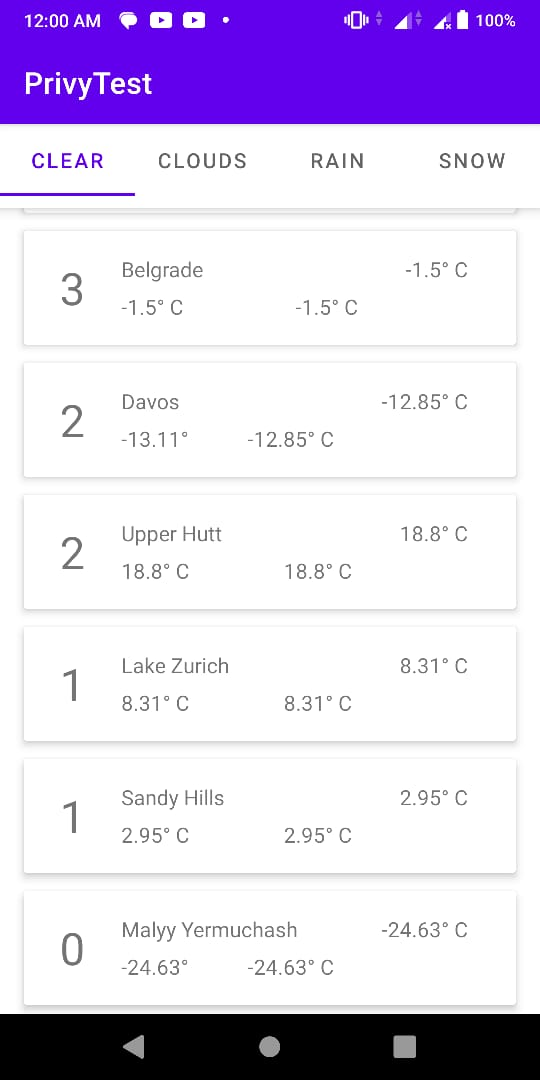
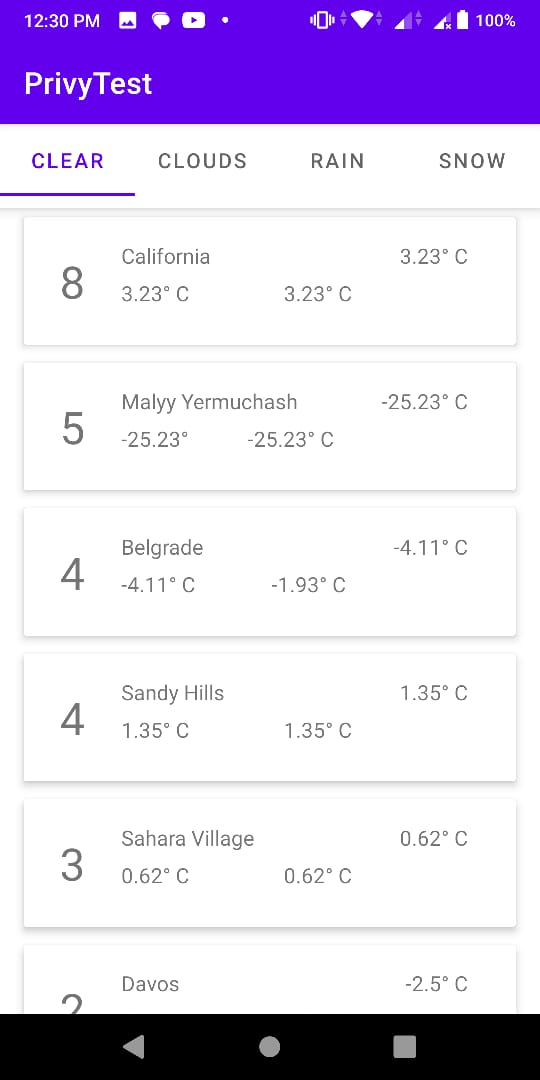
create module for shared preference

diff --git a/app/src/main/java/com/example/privytest/weatherpage/adapter/WeatherAdapter.kt b/app/src/main/java/com/example/privytest/weatherpage/adapter/WeatherAdapter.kt
@@ -13,6 +13,7 @@ import com.example.privytest.Utils.Utils.decimalFormat
 import com.example.privytest.Utils.Utils.sortDescCountAscName
 import com.example.privytest.databinding.ItemWeatherBinding
 import com.example.privytest.weatherpage.model.WeatherModel
+import com.squareup.picasso.Picasso
 
 class WeatherAdapter(private val context: Context) :
     RecyclerView.Adapter<WeatherAdapter.ViewHolder>() {
@@ -37,6 +38,10 @@ class WeatherAdapter(private val context: Context) :
             binding.maxTemp.text = convertToCelsius(weather.maxTemp.toDouble())
             binding.tvMinTemp.text = convertToCelsius(weather.minTemp.toDouble())
             binding.tvCurrentTemp.text = convertToCelsius(weather.currentTemp.toDouble())
+
+
+            val imageUri = "http://openweathermap.org/img/wn/${weather.icon}@2x.png"
+            Glide.with(context).load(imageUri).into(binding.imgIcon)
         }
 
     }

diff --git a/app/src/main/java/com/example/privytest/di/local/CacheModule.kt b/app/src/main/java/com/example/privytest/di/local/CacheModule.kt
@@ -1,0 +1,25 @@
+package com.example.privytest.di.local
+
+import android.content.Context
+import android.content.SharedPreferences
+import com.example.privytest.BuildConfig
+import dagger.Module
+import dagger.Provides
+import dagger.hilt.InstallIn
+import dagger.hilt.android.qualifiers.ApplicationContext
+import dagger.hilt.components.SingletonComponent
+import javax.inject.Singleton
+
+
+@Module
+@InstallIn(SingletonComponent::class)
+class CacheModule {
+
+
+    @Singleton
+    @Provides
+    fun provideSharePreference(@ApplicationContext context: Context) : SharedPreferences {
+        return context.getSharedPreferences(BuildConfig.APPLICATION_ID, Context.MODE_PRIVATE)
+    }
+
+}

diff --git a/app/src/main/java/com/example/privytest/weatherpage/WeatherViewModel.kt b/app/src/main/java/com/example/privytest/weatherpage/WeatherViewModel.kt
@@ -1,6 +1,7 @@
 package com.example.privytest.weatherpage
 
 import android.app.Application
+import android.content.SharedPreferences
 import androidx.lifecycle.AndroidViewModel
 import androidx.lifecycle.MutableLiveData
 import androidx.lifecycle.ViewModel
@@ -22,6 +23,7 @@ import javax.inject.Named
 @HiltViewModel
 class WeatherViewModel @Inject constructor(
     private val repository: Repository,
+    private val sharedPreferences: SharedPreferences
 ) : ViewModel() {
 
 

diff --git a/app/src/main/java/com/example/privytest/di/network/NetworkModule.kt b/app/src/main/java/com/example/privytest/di/network/NetworkModule.kt
@@ -31,7 +31,7 @@ class NetworkModule {
     @Singleton
     fun provideOkHttpClient(): OkHttpClient {
         return OkHttpClient.Builder()
-            .addInterceptor(HttpLoggingInterceptor())
+            .addInterceptor(HttpLoggingInterceptor().setLevel(HttpLoggingInterceptor.Level.BODY))
             .build()
     }
 

diff --git a/app/src/main/java/com/example/privytest/weatherpage/model/WeatherModel.kt b/app/src/main/java/com/example/privytest/weatherpage/model/WeatherModel.kt
@@ -2,7 +2,7 @@ package com.example.privytest.weatherpage.model
 
 data class WeatherModel(
 
-    var count: Int = 0,
+    var count: Int = 1,
 
     val cityName: String,
 

diff --git a/app/src/main/java/com/example/privytest/WeatherApplication.kt b/app/src/main/java/com/example/privytest/WeatherApplication.kt
@@ -6,4 +6,7 @@ import dagger.hilt.android.HiltAndroidApp
 
 @HiltAndroidApp
 class WeatherApplication : Application() {
+
+
+
 }

diff --git a/app/src/main/java/com/example/privytest/datasource/LocalDataSource.kt b/app/src/main/java/com/example/privytest/datasource/LocalDataSource.kt
@@ -1,0 +1,8 @@
+package com.example.privytest.datasource
+
+class LocalDataSource {
+
+
+
+
+}
